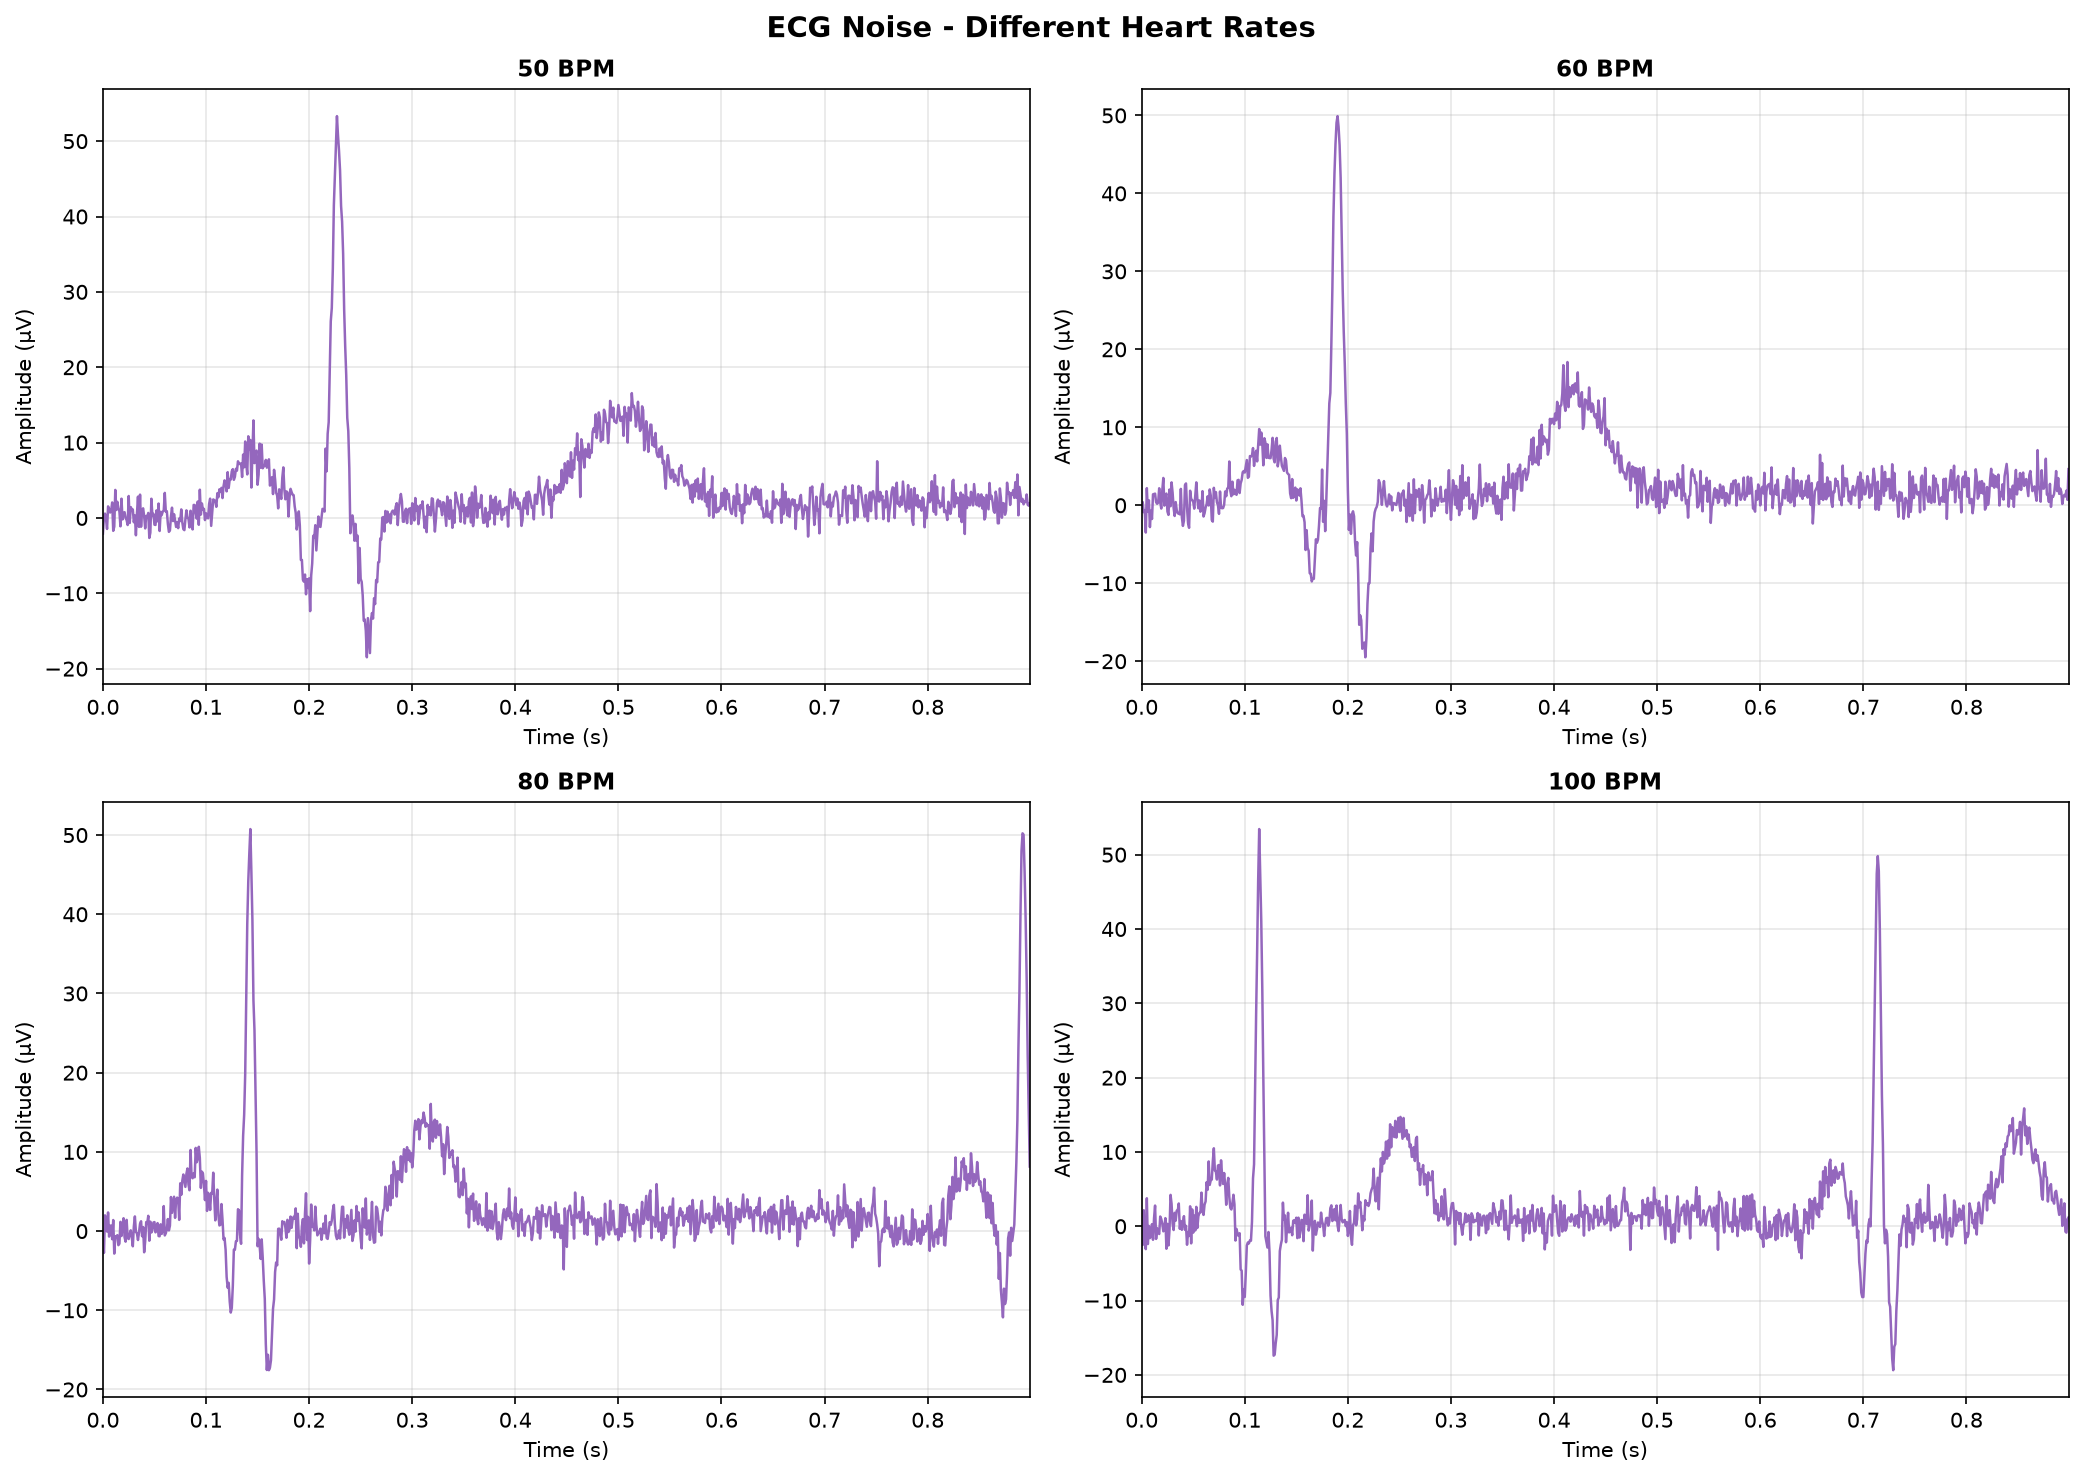
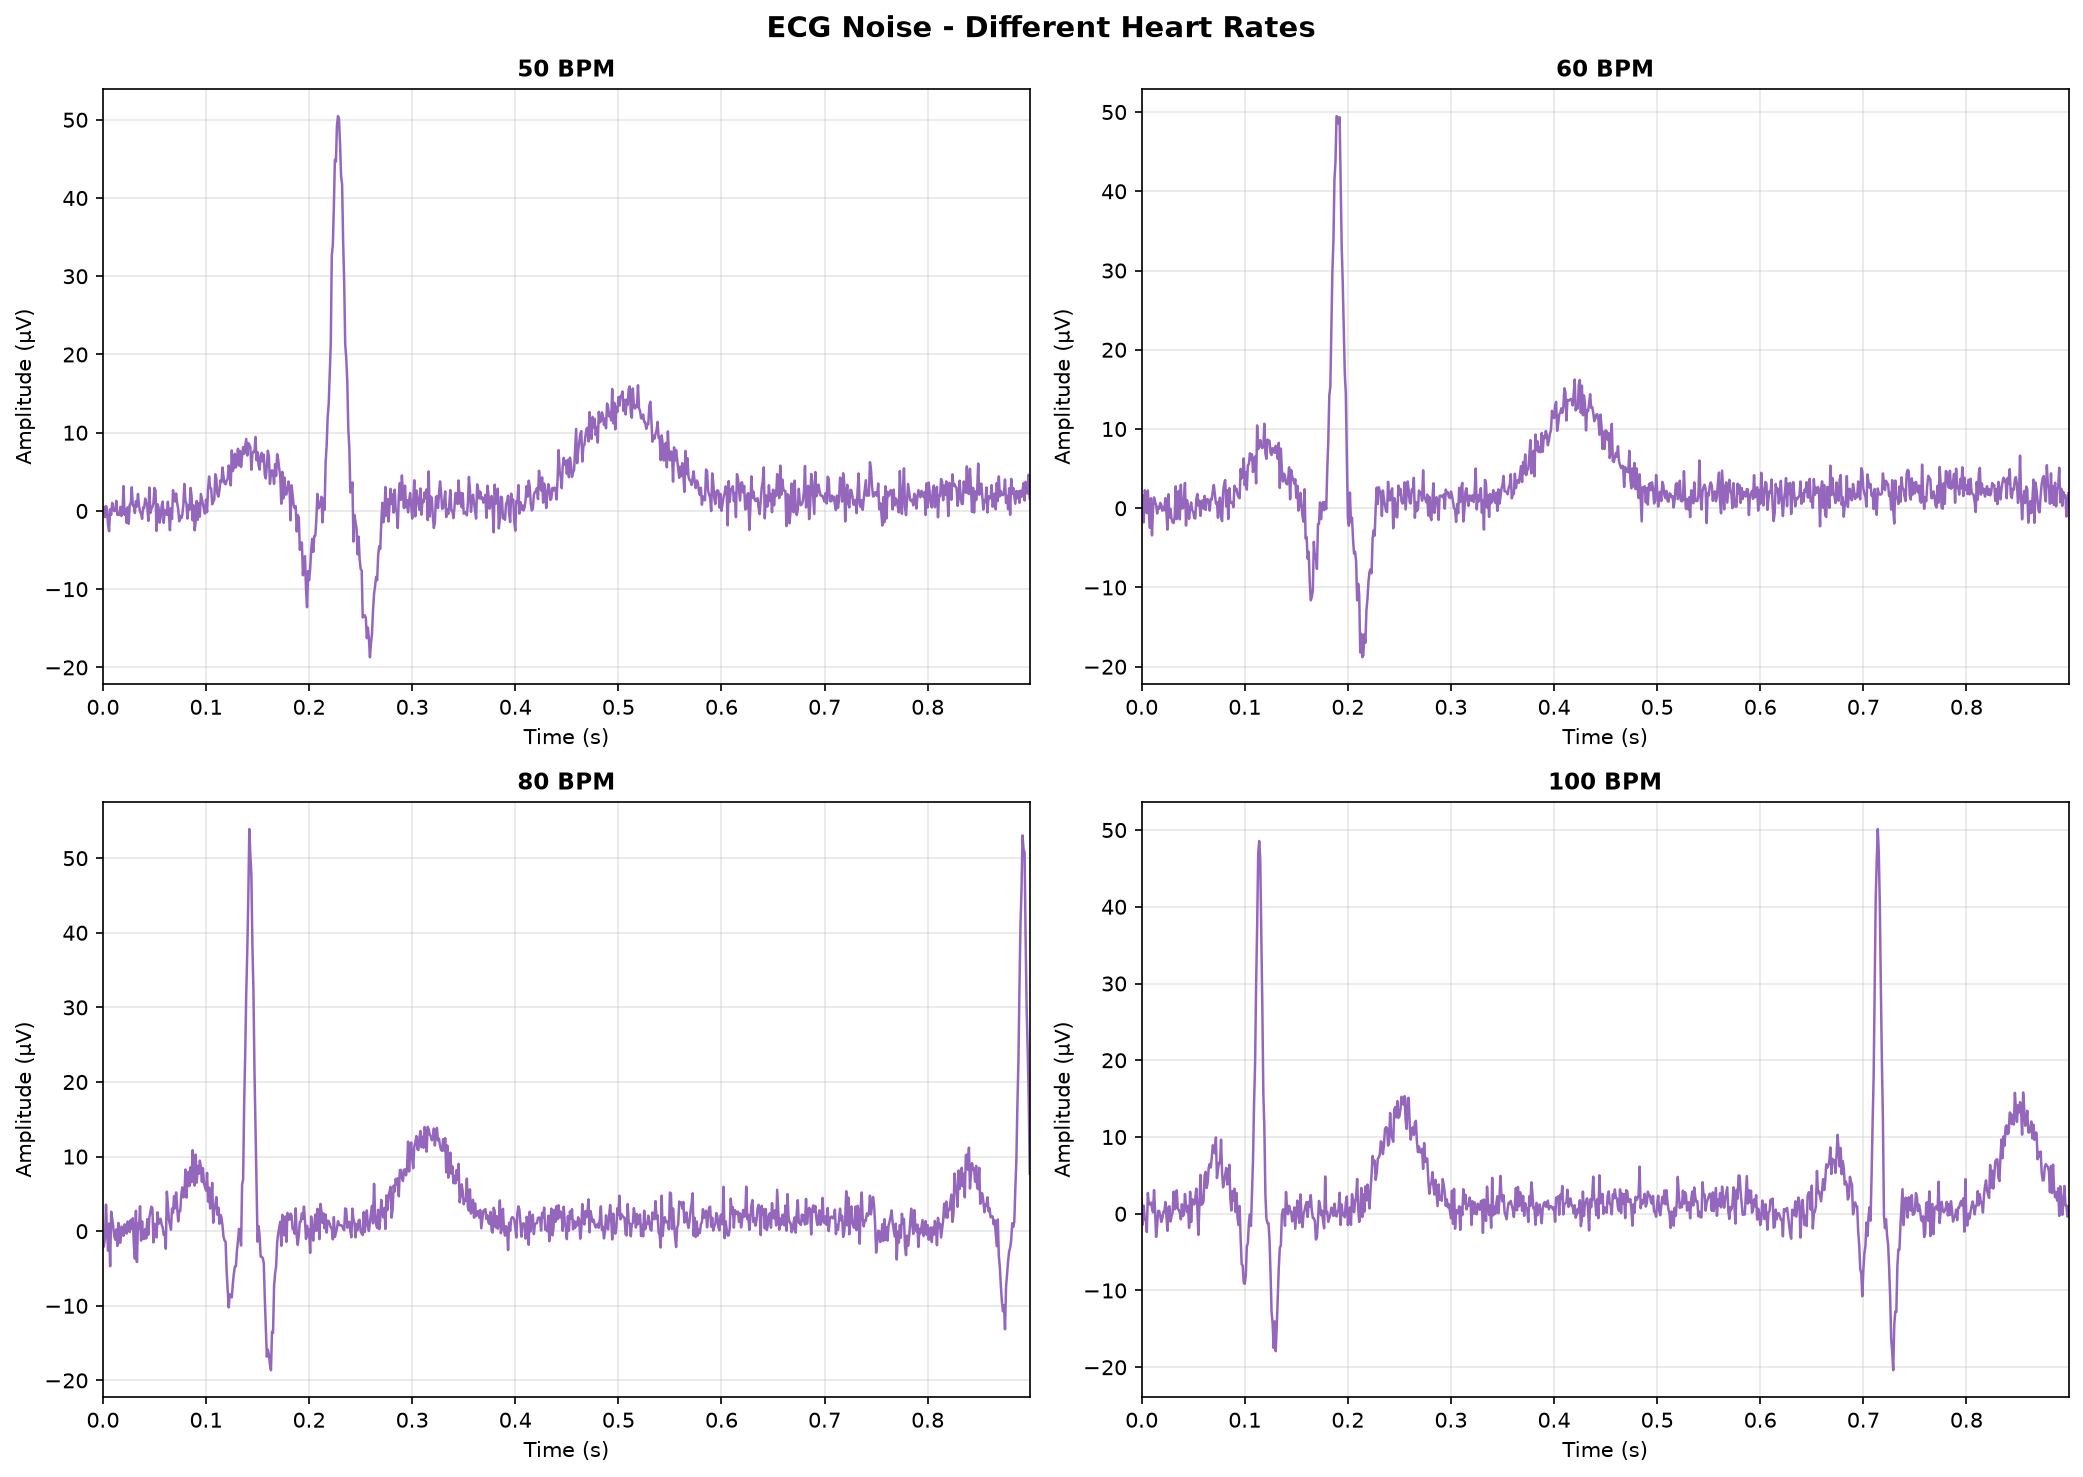
性能优化

diff --git a/eeg_simulator/core/simulator/signal.py b/eeg_simulator/core/simulator/signal.py
@@ -172,7 +172,13 @@ class SimulatorSignal:
             }
         return patch_data
 
-    def _project_to_electrodes_batch(self, patch_signals, n_samples, start_time=None):
+    def _project_to_electrodes_batch(
+        self,
+        patch_signals,
+        n_samples,
+        start_time=None,
+        return_all_data: bool = False,
+    ):
         """批量投影到电极"""
         if self._sim._mne_simulator is not None and self._sim._mne_simulator.is_ready():
             patch_data = self._build_patch_data(patch_signals, n_samples)
@@ -228,14 +234,16 @@ class SimulatorSignal:
                     logger.warning(f"没有匹配的通道! 选中: {self._sim.selected_channels}, "
                                  f"可用: {list(all_data.keys())[:10]}...")
                     # 完全回退到简化投影
-                    return self._simplified_projection_batch(patch_signals, n_samples)
+                    fallback = self._simplified_projection_batch(patch_signals, n_samples)
+                    return (fallback, None) if return_all_data else fallback
 
-                return eeg_data
+                return (eeg_data, all_data) if return_all_data else eeg_data
             except Exception as e:
                 logger.error(f"MNE投影失败: {e}")
 
         # 简化投影
-        return self._simplified_projection_batch(patch_signals, n_samples)
+        fallback = self._simplified_projection_batch(patch_signals, n_samples)
+        return (fallback, None) if return_all_data else fallback
 
     def _simplified_projection_batch(self, patch_signals, n_samples):
         """简化投影 - 用于EEG通道"""
@@ -824,6 +832,38 @@ class SimulatorSignal:
         )
         return self._normalize_heatmap_powers(
             powers, band_key, names=names, broadband=broadband
+        )
+
+    def compute_heatmap_band_powers_from_forward_series(self, forward_series: dict) -> dict:
+        """使用已经生成好的全通道 forward 数据计算热力图，避免 UI 刷新时二次 forward。"""
+        if not forward_series or self._sim._mne_simulator is None:
+            return {'mode': 'montage', 'powers': np.asarray([]), 'names': [], 'band': 'alpha'}
+
+        import mne
+
+        band_key = self._sim.signal_page.get_heatmap_band()
+        fmin, fmax = self._resolve_heatmap_band(band_key)
+        sr = self._sim.sampling_rate
+        info = self._sim._mne_simulator.info
+        picks = mne.pick_types(info, meg=False, eeg=True, exclude=[])
+        powers = []
+        broadband = []
+        for pick in picks:
+            name = info['ch_names'][pick]
+            if name in forward_series:
+                series_uV = np.asarray(forward_series[name], dtype=float) * 1e6
+                series_uV = self._filter_window_offline(series_uV)
+                powers.append(self._band_power_from_filtered_uV_series(series_uV, sr, fmin, fmax))
+                broadband.append(self._total_power_from_uV_series(series_uV))
+            else:
+                powers.append(0.0)
+                broadband.append(0.0)
+        return self._normalize_heatmap_powers(
+            np.asarray(powers, dtype=float),
+            band_key,
+            mode='forward',
+            info=info,
+            broadband=np.asarray(broadband, dtype=float),
         )
 
     def compute_heatmap_band_powers(self, channel_names, n_samples: int) -> np.ndarray:

diff --git a/eeg_simulator/core/simulator/simulation.py b/eeg_simulator/core/simulator/simulation.py
@@ -42,10 +42,21 @@ class SimulationWorker(QObject):
             timings['source_ms'] = (time.perf_counter() - section) * 1000.0
 
             section = time.perf_counter()
-            eeg_data = self._sim.signal._project_to_electrodes_batch(
-                patch_signals, n_samples, start_time=t_start
+            eeg_data, forward_series = self._sim.signal._project_to_electrodes_batch(
+                patch_signals,
+                n_samples,
+                start_time=t_start,
+                return_all_data=True,
             )
             timings['project_ms'] = (time.perf_counter() - section) * 1000.0
+
+            heatmap_result = None
+            if forward_series is not None:
+                section = time.perf_counter()
+                heatmap_result = self._sim.signal.compute_heatmap_band_powers_from_forward_series(
+                    forward_series
+                )
+                timings['heatmap_power_ms'] = (time.perf_counter() - section) * 1000.0
 
             if self._sim.noise_configs:
                 section = time.perf_counter()
@@ -59,6 +70,7 @@ class SimulationWorker(QObject):
                 'n_samples': n_samples,
                 'patch_signals': patch_signals,
                 'eeg_data': eeg_data,
+                'heatmap_result': heatmap_result,
                 'timings': timings,
             })
         except Exception as e:
@@ -79,6 +91,7 @@ class SimulatorSimulation:
         self._chunk_seconds = 1.0
         self._prefill_seconds = 1.5
         self._max_queue_seconds = 3.0
+        self._latest_heatmap_result = None
 
     def _start_worker(self):
         self._stop_worker()
@@ -94,6 +107,7 @@ class SimulatorSimulation:
     def _stop_worker(self):
         self._worker_busy = False
         self._pending_batches.clear()
+        self._latest_heatmap_result = None
         if self._worker_thread is not None:
             self._worker_thread.quit()
             self._worker_thread.wait()
@@ -197,6 +211,7 @@ class SimulatorSimulation:
         self._sim._last_update_time = None
         self._pending_batches.clear()
         self._generated_until = 0.0
+        self._latest_heatmap_result = None
 
         # 重置信号生成状态，确保从初始相位开始
         self._sim._signal_states.clear()
@@ -342,6 +357,8 @@ class SimulatorSimulation:
             batch['pos'] = 0
             self._pending_batches.append(batch)
             self._generated_until = max(self._generated_until, float(batch['t_end']))
+            if batch.get('heatmap_result') is not None:
+                self._latest_heatmap_result = batch['heatmap_result']
             self._log_realtime_perf(
                 int(batch['n_samples']),
                 batch.get('timings') or {},
@@ -370,13 +387,14 @@ class SimulatorSimulation:
             return
         self._sim._last_perf_log_time = now
         logger.info(
-            "实时性能: samples=%d queued=%.2fs worker=%.1fms(source=%.1f project=%.1f noise=%.1f) "
+            "实时性能: samples=%d queued=%.2fs worker=%.1fms(source=%.1f project=%.1f heatmap_power=%.1f noise=%.1f) "
             "ui=%.1fms(buffer=%.1f plot=%.1f heatmap=%.1f)",
             n_samples,
             self._queued_seconds(),
             worker_ms,
             float(timings.get('source_ms', 0.0)) if timings else 0.0,
             float(timings.get('project_ms', 0.0)) if timings else 0.0,
+            float(timings.get('heatmap_power_ms', 0.0)) if timings else 0.0,
             float(timings.get('noise_ms', 0.0)) if timings else 0.0,
             total_ui_ms,
             buffer_ms,
@@ -504,6 +522,16 @@ class SimulatorSimulation:
 
     def _update_heatmap_from_simulation(self):
         """根据仿真结果更新热力图（全 montage 频带功率）"""
+        current_band = self._sim.signal_page.get_heatmap_band()
+        if (
+            self._latest_heatmap_result is not None
+            and self._latest_heatmap_result.get('band') == current_band
+        ):
+            self._sim.signal_page.update_heatmap_result(self._latest_heatmap_result)
+            return
+        if self._latest_heatmap_result is not None and self._sim._mne_simulator is not None:
+            return
+
         time_window = min(
             self._sim.signal_page.time_window_spin.value(),
             getattr(self._sim, 'heatmap_analysis_window', 2.0),